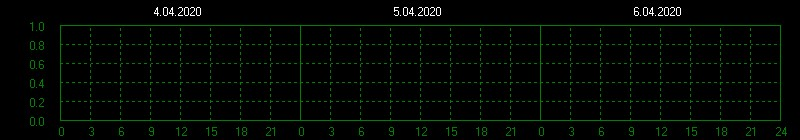
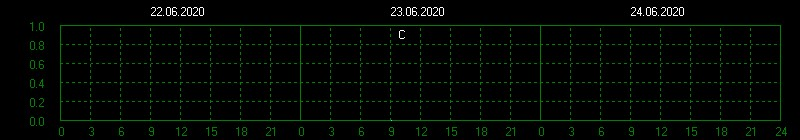
schumann resonance for Wed Jun 24 12:09:12 CEST 2020

Changed region(s): [[0.7812, 0.0286, 0.875, 0.1143], [0.4688, 0.0286, 0.5625, 0.1143], [0.1875, 0.0286, 0.25, 0.1143]]

diff --git a/sch-reso.htm b/sch-reso.htm
@@ -1,9 +1,9 @@
 <!DOCTYPE html>
 <p><meta charset="utf8"/></p>
 <h2 id="status-of-our-planet-schumann-resonances">Status of our planet (Schumann Resonances)</h2>
-<p>$Date: Mon Apr 6 11:51:04 CEST 2020 $<br> $GITid: 114e59f $ (previous)<br></p>
-<p>SPGRM:<br> <img src="https://nocc.heartmath.org/spectrogram/gci003/SPGRM_2020_03_29_ch2.jpg" alt="IMG" /> <img src="https://nocc.heartmath.org/spectrogram/gci003/SPGRM_2020_03_30_ch2.jpg" alt="IMG" /> <img src="https://nocc.heartmath.org/spectrogram/gci003/SPGRM_2020_03_31_ch2.jpg" alt="IMG" /> <img src="https://nocc.heartmath.org/spectrogram/gci003/SPGRM_2020_04_01_ch2.jpg" alt="IMG" /> <img src="https://nocc.heartmath.org/spectrogram/gci003/SPGRM_2020_04_02_ch2.jpg" alt="IMG" /> <img src="https://nocc.heartmath.org/spectrogram/gci003/SPGRM_2020_04_03_ch2.jpg" alt="IMG" /> <img src="https://nocc.heartmath.org/spectrogram/gci003/SPGRM_2020_04_04_ch2.jpg" alt="IMG" /><br> <img src="https://nocc.heartmath.org/spectrogram/gci003/SPGRM_2020_04_06_ch2.jpg" alt="SPGRM 2020_04_06" /><br></p>
+<p>$Date: Wed Jun 24 12:09:12 CEST 2020 $<br> $GITid: 1fda3f8 $ (previous)<br></p>
+<p>SPGRM:<br> <br> <img src="https://nocc.heartmath.org/spectrogram/gci003/SPGRM_2020_06_24_ch2.jpg" alt="SPGRM 2020_06_24" /><br></p>
 <p><img src="http://sosrff.tsu.ru/new/srf.jpg" alt="SRF" /><br> <img src="http://sosrff.tsu.ru/new/sra.jpg" alt="SRA" /><br> <img src="http://sosrff.tsu.ru/new/umf.jpg" alt="UMF" /><br> <img src="http://sosrff.tsu.ru/new/wsp.jpg" alt="WSP" /><br></p>
 <p><img src="http://sosrff.tsu.ru/new/meteo_en.jpg" alt="meteo" /><br> <img src="http://sosrff.tsu.ru/new/prs.jpg" alt="PRS" /><br></p>
 <p><img src="http://sosrff.tsu.ru/new/hmo.jpg" alt="HMO" /><br> <img src="http://sosrff.tsu.ru/new/ion.jpg" alt="ION" /><br> <img src="http://sosrff.tsu.ru/new/ipf.jpg" alt="IPF" /><br> <img src="http://sosrff.tsu.ru/new/ipfbs.jpg" alt="IPFBS" /><br> <img src="http://sosrff.tsu.ru/new/iph.jpg" alt="IPH" /><br></p>
-<p>-- <br> this file: <a href="schumann-reson.html" class="uri">schumann-reson.html</a> (previous: <a href="https://github.com/Advancement-of-Civilization-Effort/NOCC/blob/114e59f/schumann-reson.html">114e59f</a>) (is also on IPNS: <a href="https://gateway.ipfs.io/ipns/QmQE42Qy1VD9AE6eYc2skE5xujsgJ3edbG2AiC1Y3eFDHv">QmYHfWp8NjSJ9gBEiDotXFvhbospMv8FLSwmAKGe5RnT9q</a>)</p>
+<p>-- <br> this file: <a href="schumann-reson.html" class="uri">schumann-reson.html</a> (previous: <a href="https://github.com/Advancement-of-Civilization-Effort/NOCC/blob/1fda3f8/schumann-reson.html">1fda3f8</a>) (is also on IPNS: <a href="https://gateway.ipfs.io/ipns/QmQE42Qy1VD9AE6eYc2skE5xujsgJ3edbG2AiC1Y3eFDHv">QmYHfWp8NjSJ9gBEiDotXFvhbospMv8FLSwmAKGe5RnT9q</a>)</p>

diff --git a/schumann-reson.html b/schumann-reson.html
@@ -1,9 +1,9 @@
 <!DOCTYPE html>
 <p><meta charset="utf8"/></p>
 <h2 id="status-of-our-planet-schumann-resonances">Status of our planet (Schumann Resonances)</h2>
-<p>$Date: Mon Apr 6 11:51:04 CEST 2020 $<br> $GITid: 114e59f $ (previous)<br></p>
-<p>SPGRM:<br> <img src="https://nocc.heartmath.org/spectrogram/gci003/SPGRM_2020_03_29_ch2.jpg" alt="IMG" /> <img src="https://nocc.heartmath.org/spectrogram/gci003/SPGRM_2020_03_30_ch2.jpg" alt="IMG" /> <img src="https://nocc.heartmath.org/spectrogram/gci003/SPGRM_2020_03_31_ch2.jpg" alt="IMG" /> <img src="https://nocc.heartmath.org/spectrogram/gci003/SPGRM_2020_04_01_ch2.jpg" alt="IMG" /> <img src="https://nocc.heartmath.org/spectrogram/gci003/SPGRM_2020_04_02_ch2.jpg" alt="IMG" /> <img src="https://nocc.heartmath.org/spectrogram/gci003/SPGRM_2020_04_03_ch2.jpg" alt="IMG" /> <img src="https://nocc.heartmath.org/spectrogram/gci003/SPGRM_2020_04_04_ch2.jpg" alt="IMG" /><br> <img src="https://nocc.heartmath.org/spectrogram/gci003/SPGRM_2020_04_06_ch2.jpg" alt="SPGRM 2020_04_06" /><br></p>
+<p>$Date: Wed Jun 24 12:09:12 CEST 2020 $<br> $GITid: 1fda3f8 $ (previous)<br></p>
+<p>SPGRM:<br> <br> <img src="https://nocc.heartmath.org/spectrogram/gci003/SPGRM_2020_06_24_ch2.jpg" alt="SPGRM 2020_06_24" /><br></p>
 <p><img src="today/srf.jpg" alt="SRF" /><br> <img src="today/sra.jpg" alt="SRA" /><br> <img src="today/umf.jpg" alt="UMF" /><br> <img src="today/wsp.jpg" alt="WSP" /><br></p>
 <p><img src="today/meteo_en.jpg" alt="meteo" /><br> <img src="today/prs.jpg" alt="PRS" /><br></p>
 <p><img src="today/hmo.jpg" alt="HMO" /><br> <img src="today/ion.jpg" alt="ION" /><br> <img src="today/ipf.jpg" alt="IPF" /><br> <img src="today/ipfbs.jpg" alt="IPFBS" /><br> <img src="today/iph.jpg" alt="IPH" /><br></p>
-<p>-- <br> this file: <a href="schumann-reson.html" class="uri">schumann-reson.html</a> (previous: <a href="https://github.com/Advancement-of-Civilization-Effort/NOCC/blob/114e59f/schumann-reson.html">114e59f</a>) (is also on IPNS: <a href="https://gateway.ipfs.io/ipns/QmQE42Qy1VD9AE6eYc2skE5xujsgJ3edbG2AiC1Y3eFDHv">QmYHfWp8NjSJ9gBEiDotXFvhbospMv8FLSwmAKGe5RnT9q</a>)</p>
+<p>-- <br> this file: <a href="schumann-reson.html" class="uri">schumann-reson.html</a> (previous: <a href="https://github.com/Advancement-of-Civilization-Effort/NOCC/blob/1fda3f8/schumann-reson.html">1fda3f8</a>) (is also on IPNS: <a href="https://gateway.ipfs.io/ipns/QmQE42Qy1VD9AE6eYc2skE5xujsgJ3edbG2AiC1Y3eFDHv">QmYHfWp8NjSJ9gBEiDotXFvhbospMv8FLSwmAKGe5RnT9q</a>)</p>

diff --git a/sch-reso.md b/sch-reso.md
@@ -2,18 +2,12 @@
 
 ## Status of our planet (Schumann Resonances)
 
-$Date: Mon Apr  6 11:51:04 CEST 2020 $<br>
-$GITid: 114e59f $ (previous)<br>
+$Date: Wed Jun 24 12:09:12 CEST 2020 $<br>
+$GITid: 1fda3f8 $ (previous)<br>
 
 SPGRM:<br>
-![IMG](https://nocc.heartmath.org/spectrogram/gci003/SPGRM_2020_03_29_ch2.jpg)
-![IMG](https://nocc.heartmath.org/spectrogram/gci003/SPGRM_2020_03_30_ch2.jpg)
-![IMG](https://nocc.heartmath.org/spectrogram/gci003/SPGRM_2020_03_31_ch2.jpg)
-![IMG](https://nocc.heartmath.org/spectrogram/gci003/SPGRM_2020_04_01_ch2.jpg)
-![IMG](https://nocc.heartmath.org/spectrogram/gci003/SPGRM_2020_04_02_ch2.jpg)
-![IMG](https://nocc.heartmath.org/spectrogram/gci003/SPGRM_2020_04_03_ch2.jpg)
-![IMG](https://nocc.heartmath.org/spectrogram/gci003/SPGRM_2020_04_04_ch2.jpg)<br>
-![SPGRM 2020_04_06](https://nocc.heartmath.org/spectrogram/gci003/SPGRM_2020_04_06_ch2.jpg)<br>
+<br>
+![SPGRM 2020_06_24](https://nocc.heartmath.org/spectrogram/gci003/SPGRM_2020_06_24_ch2.jpg)<br>
 
 ![SRF](http://sosrff.tsu.ru/new/srf.jpg)<br>
 ![SRA](http://sosrff.tsu.ru/new/sra.jpg)<br>
@@ -30,6 +24,6 @@ SPGRM:<br>
 ![IPH](http://sosrff.tsu.ru/new/iph.jpg)<br>
 
 --&nbsp;<br>
-this file: [schumann-reson.html](schumann-reson.html) (previous: [114e59f](https://github.com/Advancement-of-Civilization-Effort/NOCC/blob/114e59f/schumann-reson.html))
+this file: [schumann-reson.html](schumann-reson.html) (previous: [1fda3f8](https://github.com/Advancement-of-Civilization-Effort/NOCC/blob/1fda3f8/schumann-reson.html))
 (is also on IPNS: [QmYHfWp8NjSJ9gBEiDotXFvhbospMv8FLSwmAKGe5RnT9q](https://gateway.ipfs.io/ipns/QmQE42Qy1VD9AE6eYc2skE5xujsgJ3edbG2AiC1Y3eFDHv))
 

diff --git a/schumann-reson.md b/schumann-reson.md
@@ -2,18 +2,12 @@
 
 ## Status of our planet (Schumann Resonances)
 
-$Date: Mon Apr  6 11:51:04 CEST 2020 $<br>
-$GITid: 114e59f $ (previous)<br>
+$Date: Wed Jun 24 12:09:12 CEST 2020 $<br>
+$GITid: 1fda3f8 $ (previous)<br>
 
 SPGRM:<br>
-![IMG](https://nocc.heartmath.org/spectrogram/gci003/SPGRM_2020_03_29_ch2.jpg)
-![IMG](https://nocc.heartmath.org/spectrogram/gci003/SPGRM_2020_03_30_ch2.jpg)
-![IMG](https://nocc.heartmath.org/spectrogram/gci003/SPGRM_2020_03_31_ch2.jpg)
-![IMG](https://nocc.heartmath.org/spectrogram/gci003/SPGRM_2020_04_01_ch2.jpg)
-![IMG](https://nocc.heartmath.org/spectrogram/gci003/SPGRM_2020_04_02_ch2.jpg)
-![IMG](https://nocc.heartmath.org/spectrogram/gci003/SPGRM_2020_04_03_ch2.jpg)
-![IMG](https://nocc.heartmath.org/spectrogram/gci003/SPGRM_2020_04_04_ch2.jpg)<br>
-![SPGRM 2020_04_06](https://nocc.heartmath.org/spectrogram/gci003/SPGRM_2020_04_06_ch2.jpg)<br>
+<br>
+![SPGRM 2020_06_24](https://nocc.heartmath.org/spectrogram/gci003/SPGRM_2020_06_24_ch2.jpg)<br>
 
 ![SRF](today/srf.jpg)<br>
 ![SRA](today/sra.jpg)<br>
@@ -30,6 +24,6 @@ SPGRM:<br>
 ![IPH](today/iph.jpg)<br>
 
 --&nbsp;<br>
-this file: [schumann-reson.html](schumann-reson.html) (previous: [114e59f](https://github.com/Advancement-of-Civilization-Effort/NOCC/blob/114e59f/schumann-reson.html))
+this file: [schumann-reson.html](schumann-reson.html) (previous: [1fda3f8](https://github.com/Advancement-of-Civilization-Effort/NOCC/blob/1fda3f8/schumann-reson.html))
 (is also on IPNS: [QmYHfWp8NjSJ9gBEiDotXFvhbospMv8FLSwmAKGe5RnT9q](https://gateway.ipfs.io/ipns/QmQE42Qy1VD9AE6eYc2skE5xujsgJ3edbG2AiC1Y3eFDHv))
 

diff --git a/README.md b/README.md
@@ -1,6 +1,6 @@
 ---
 gitrepo: https://github.com/advancement-of-civilization-effort
-prev: 114e59f
+prev: 1fda3f8
 ---
 ## Schumann Resonance
 
